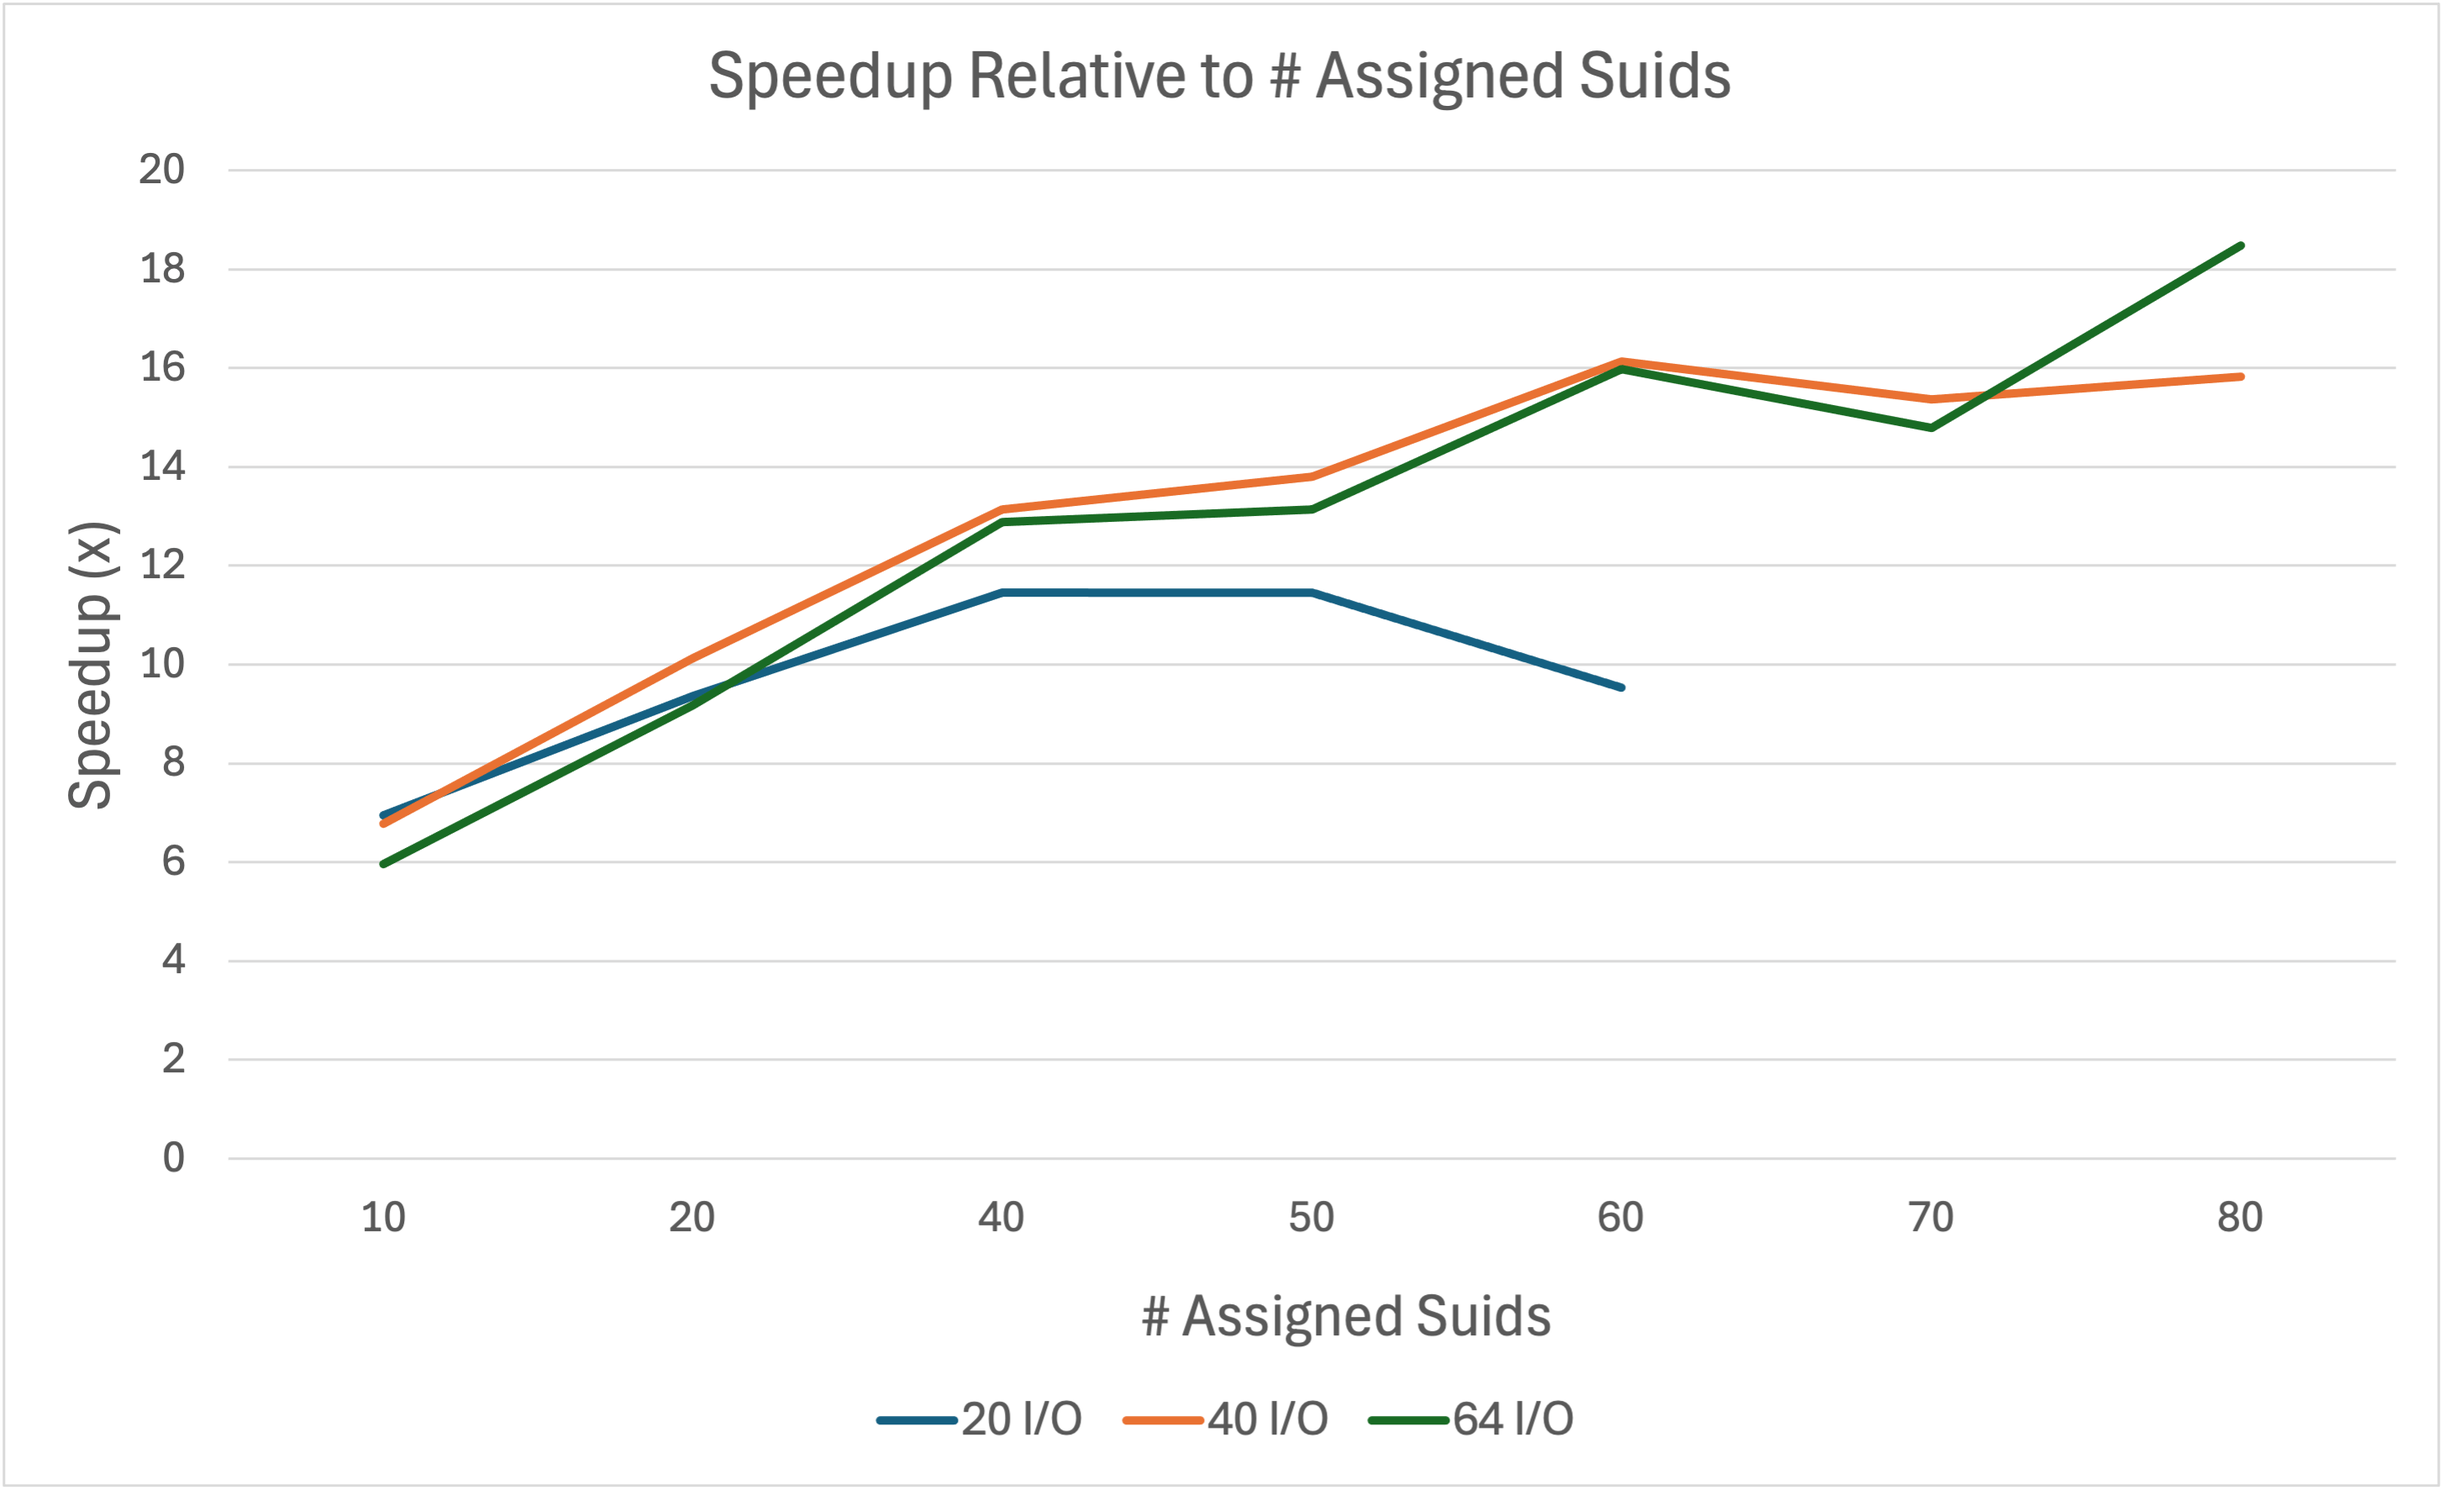
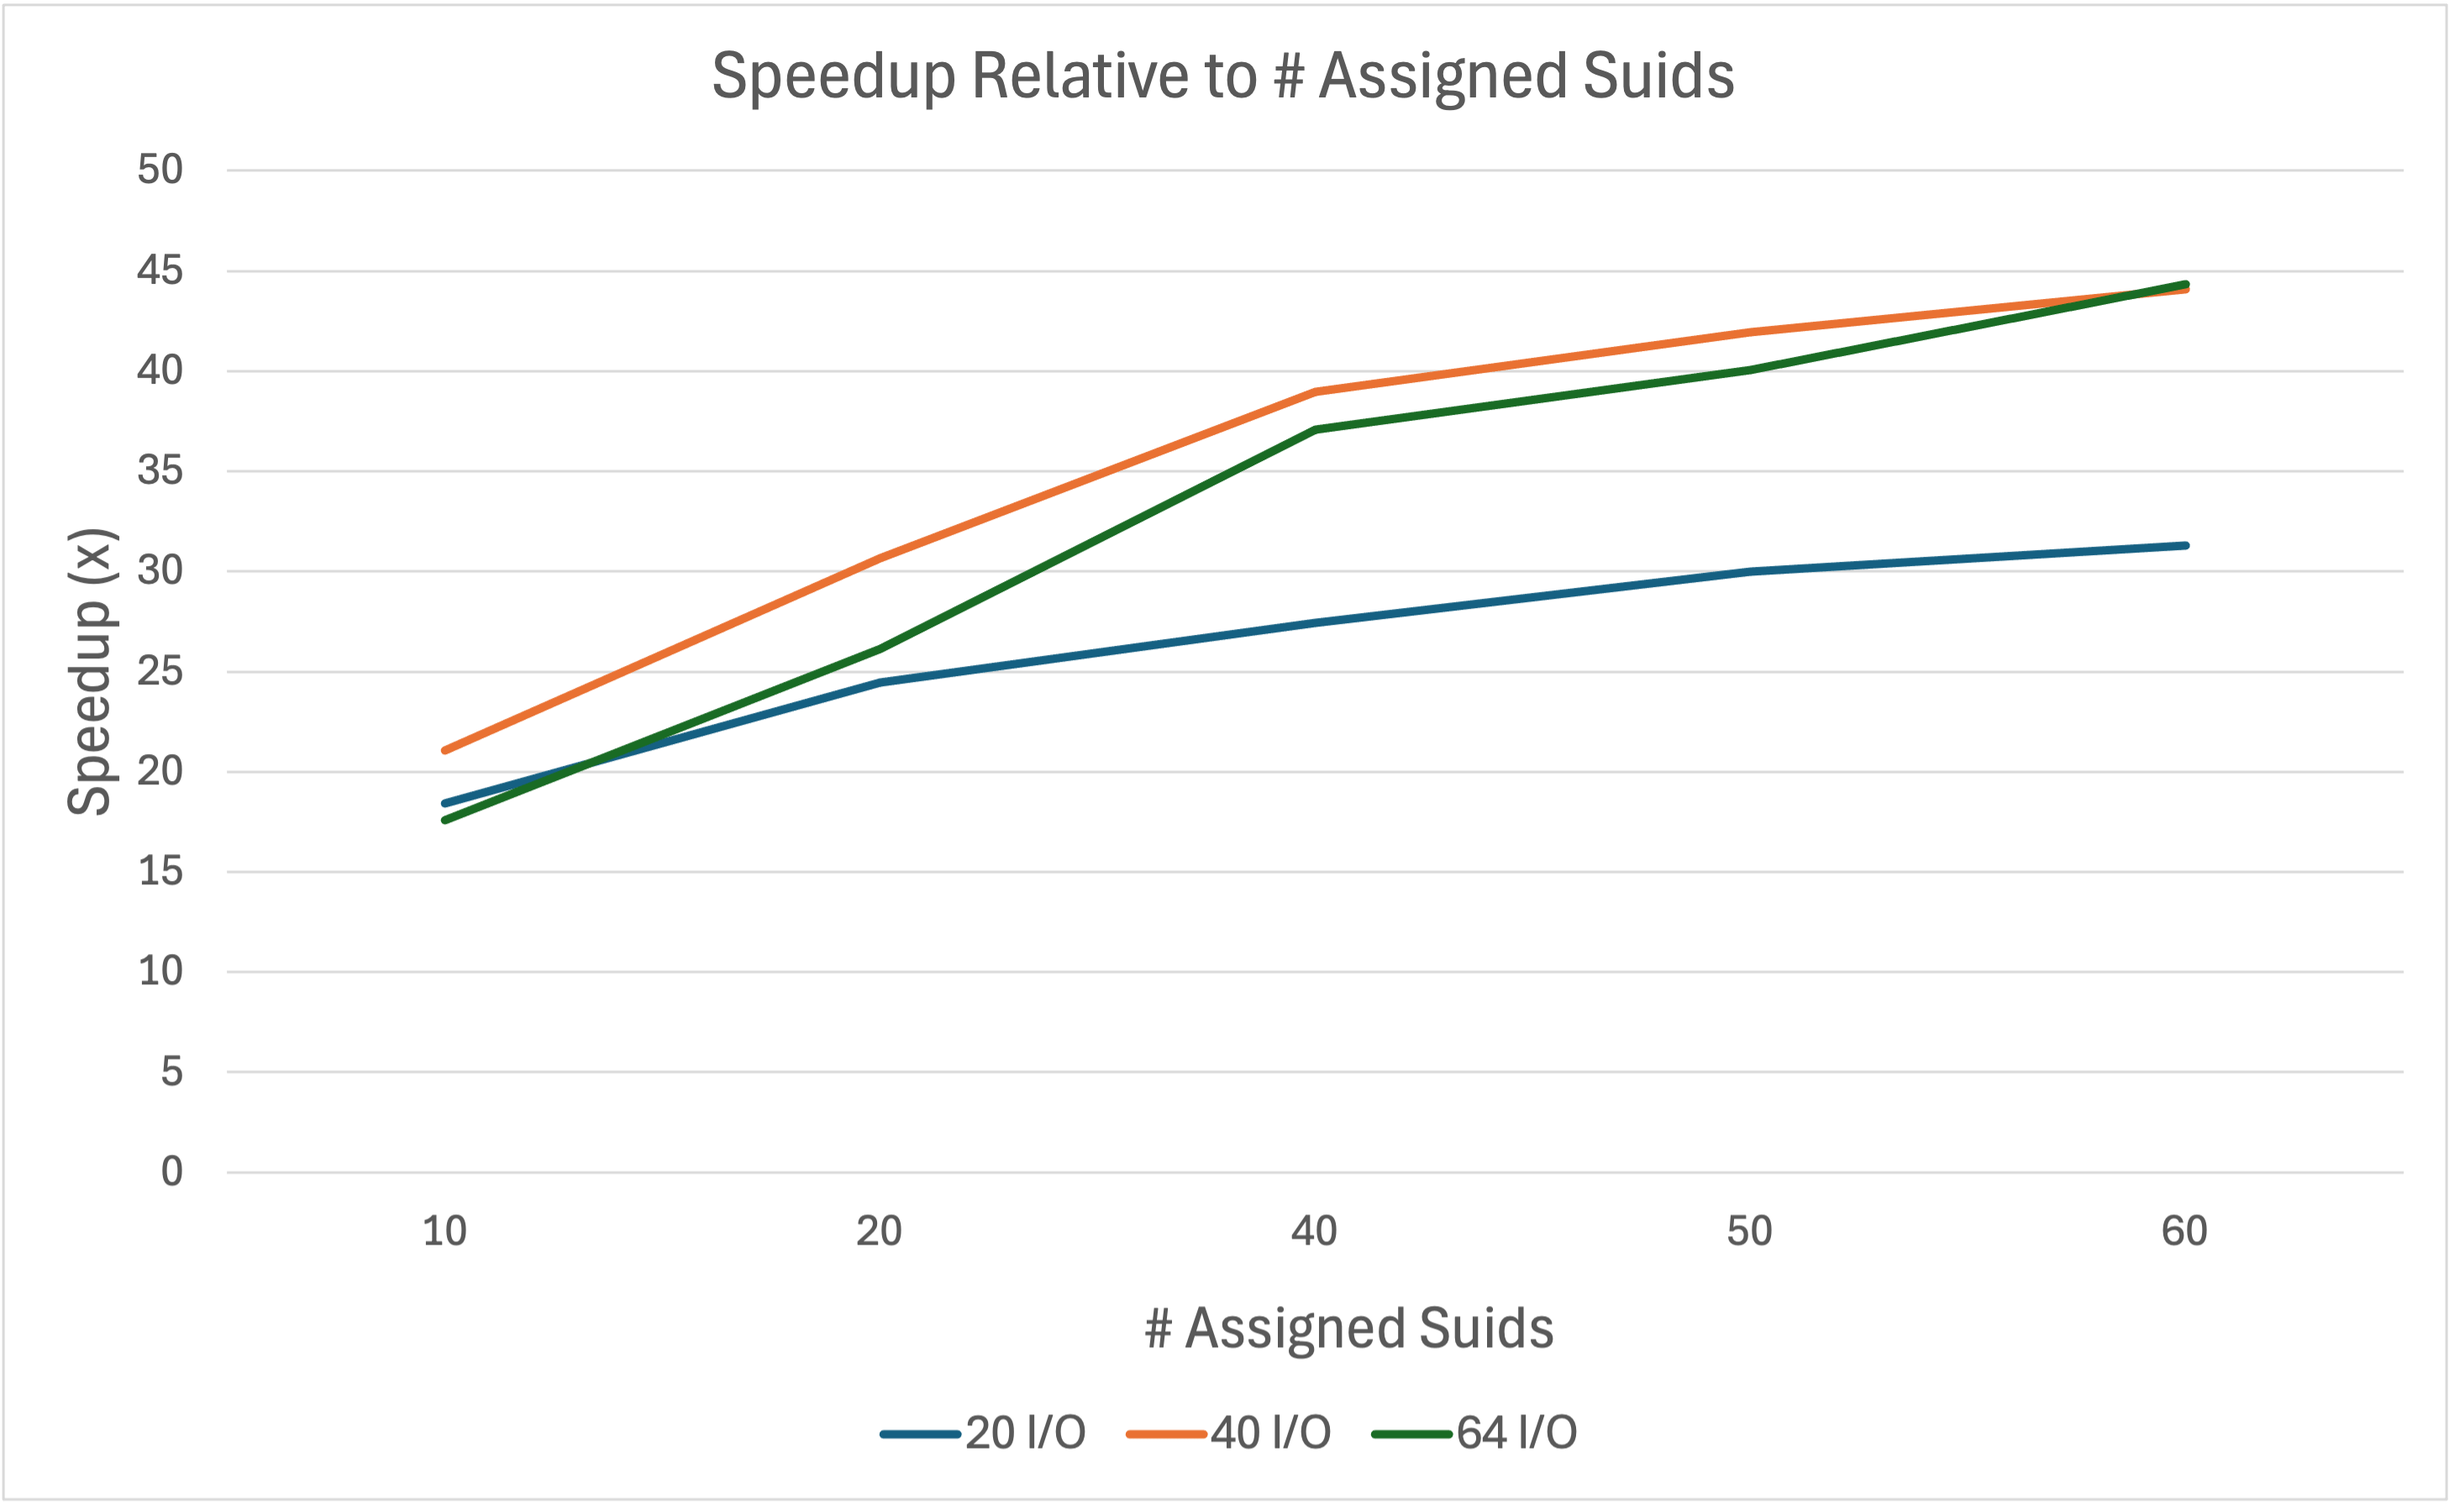
Use correct sequential results when using weather
- The current parallelization results contains speedups relative to the sequential version where weather was not read-in

- Update weather speedup graphs and descriptions to display results when the sequential and parallel mode reads in weather
- No longer report 70 & 80 cores

diff --git a/doc/additional_pages/SOILWAT2_Parallelization.md b/doc/additional_pages/SOILWAT2_Parallelization.md
@@ -193,8 +193,7 @@ There are two type of performance test conducted - with and without weather inpu
 - The third batch consisted of weather-inclusive (30 years) performance runs that also took place used a domain size of ~112k sites (excluding sites which error). This batch uses the configuration combinations of
     - Domain size: ~112,000
     - Number of cores: 128
-    - Number of suids per compute process: 10, 20, 40, 50, 60, 70*, 80*
-        - \* = only used during 40 & 64 I/O processes
+    - Number of suids per compute process: 10, 20, 40, 50, 60
     - Number of I/O processes: 20, 40, 64
     - Note: A couple supplemental performance tests were provided showing 40 years worth of weather under almost exact combinations as 30 years, but not as in-depth when it comes to the visualization
 
@@ -216,13 +215,13 @@ No Weather (Figure 4) | Weather (Figure 5)
 :----------|-----------:
 ![Figure 4](Speedup_Relative_to_Assigned_Suids-no-weather.png) | ![Figure 5](weather/Speedup_Relative_to_Assigned_Suids-weather.png)
 
-Speedup as the number of assigned suids per compute process increases. Multiple lines represent a different number of I/O processes. (no weather, left) With a lower number of assigned suids, there is no obvious pattern of which number of I/O processes is best, with a range of speedup ~75x to ~160x with 25 assigned suids. On the other end, the higher the number assigned suids, 64 I/O is the most obvious speedup at ~425x, with other I/O sizes being more mixed in their results. (With weather, right) We can see the peak of 20 I/O processes, where 40 and 64 I/O processes are roughly the same until reaching 80 assigned suids where 64 I/O processes provides a bigger performance boost. No data was gathered for 20 I/O process with 70 & 80 assigned suids as that amount of I/O processes already reached the maximum performance.
+Speedup as the number of assigned suids per compute process increases. Multiple lines represent a different number of I/O processes. (no weather, left) With a lower number of assigned suids, there is no obvious pattern of which number of I/O processes is best, with a range of speedup ~75x to ~160x with 25 assigned suids. On the other end, the higher the number assigned suids, 64 I/O is the most obvious speedup at ~425x, with other I/O sizes being more mixed in their results. (With weather, right) We can see the performance does not peak for all three amounts of I/O processes. We see a big jump from 20 to 40 assigned suids for 40 & 64 I/O processes.
 
 No Weather (Figure 6) | Weather (Figure 7)
 :----------|-----------:
 ![Figure 6](Speedup_Relative_to_I_O-no-weather.png) | ![Figure 7](Speedup_Relative_to_I_O-weather.png)
 
-Speedup as the number of I/O processes increases. Multiple lines represent a different number of assigned suids. (Without weather, left) Performance does not differ a lot between the number of assigned suids with a lower number of I/O processes. On the contrary, with 64 I/O processes, the more assigned suids, the better the performance gain. (With weather, right) For the most part, performance does not rely heavily on the number of I/O processes as we increase the number of assigned suids. The outliers being 60 and 80 assigned suids.
+Speedup as the number of I/O processes increases. Multiple lines represent a different number of assigned suids. (Without weather, left) Performance does not differ a lot between the number of assigned suids with a lower number of I/O processes. On the contrary, with 64 I/O processes, the more assigned suids, the better the performance gain. (With weather, right) For the most part, performance does not rely heavily on the number of I/O processes as we increase the number of assigned suids.
 
 No Weather (Figure 8) | Weather (Figure 9)
 :----------|-----------:
